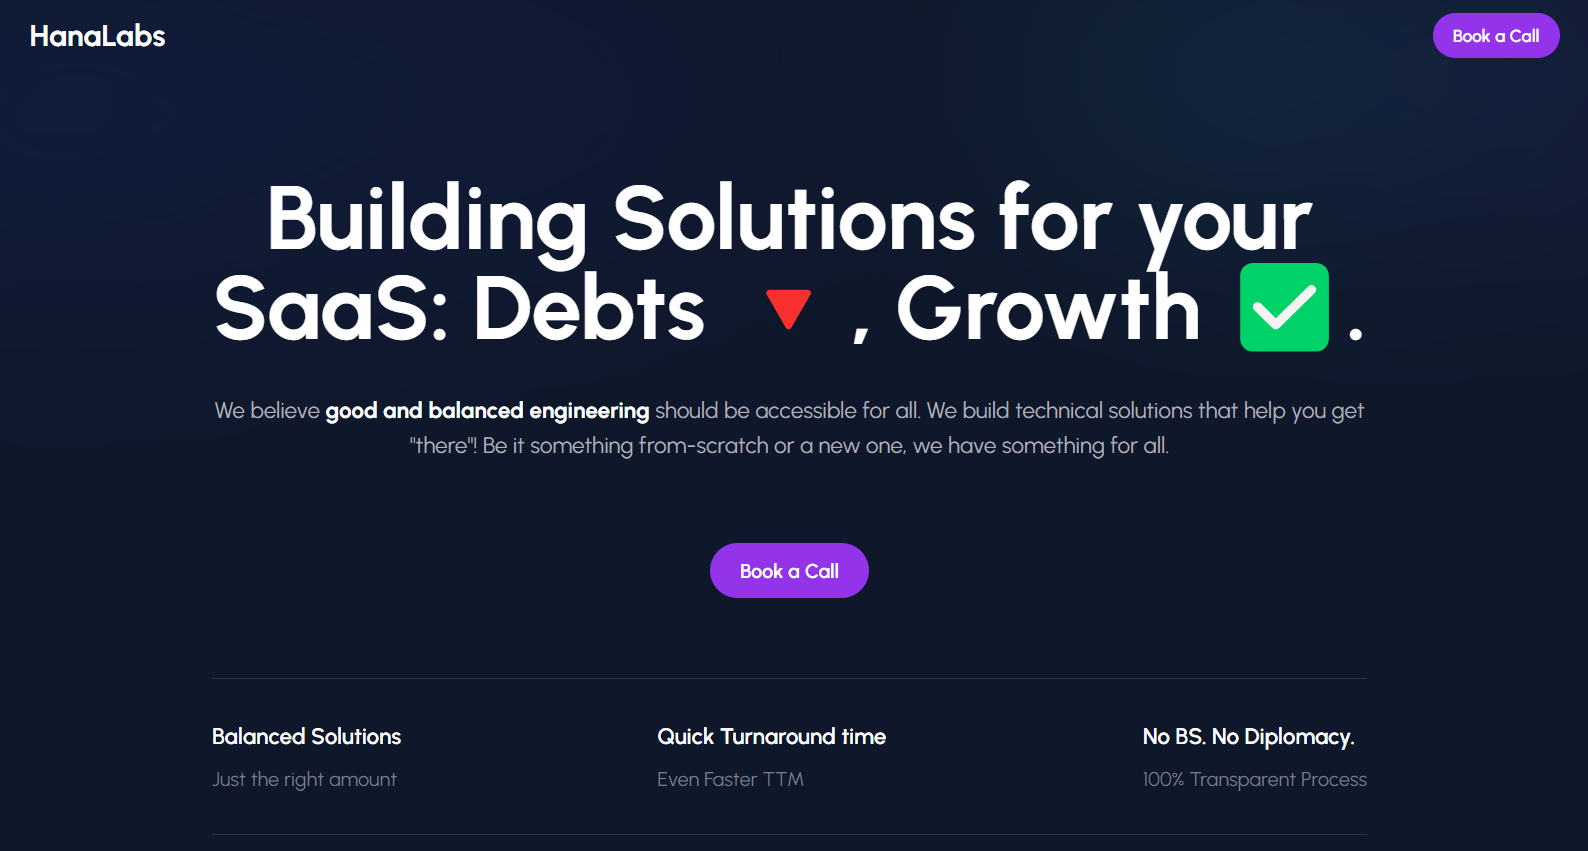
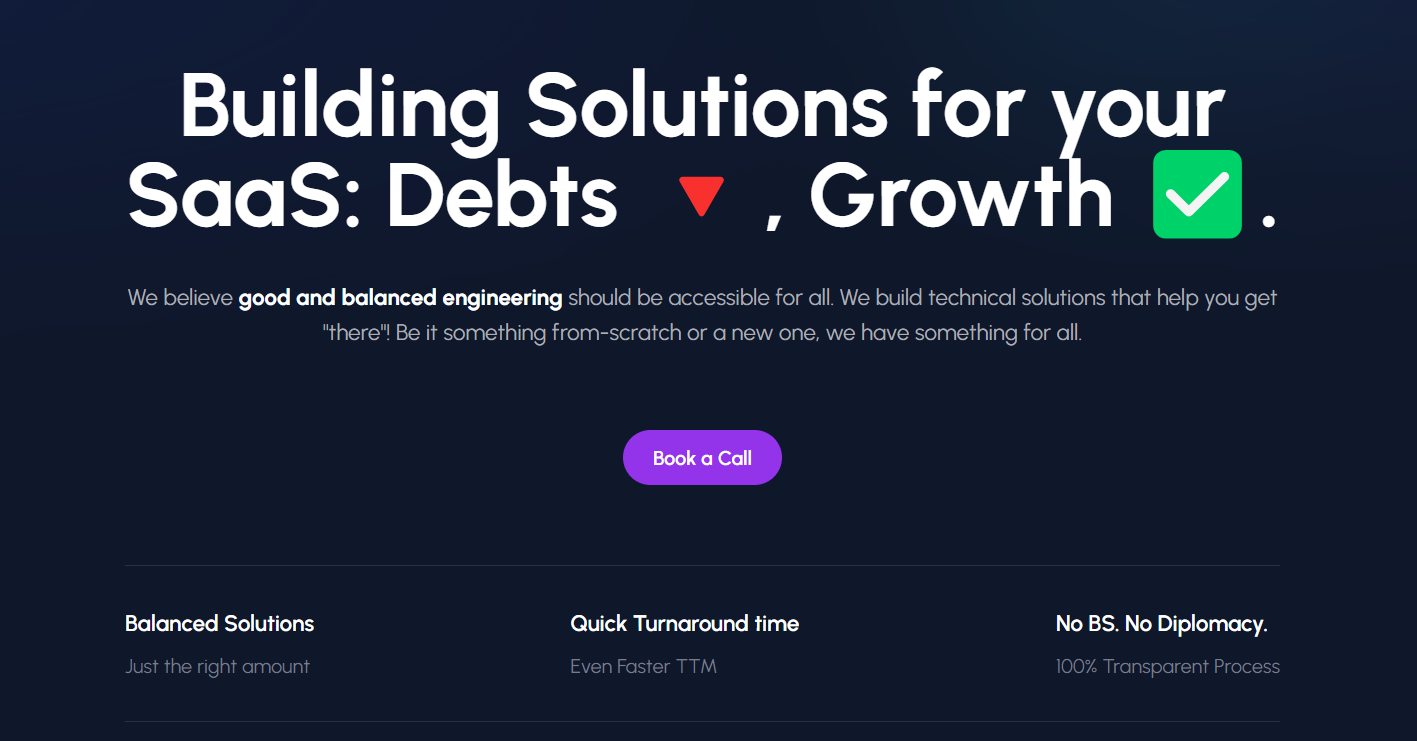
WIP community link change

diff --git a/src/components/Community.jsx b/src/components/Community.jsx
@@ -7,50 +7,65 @@ import { PiNote } from "react-icons/pi";
 import { PiArrowUpRightBold } from "react-icons/pi";
 import { Enterprise } from "../components/images/providers";
 import Link from "next/link";
+import { useRouter } from "next/router";
 
 const CommunityData = [
   {
     Icon: PiPencilSimpleLineLight,
     title: "Edit this page",
     ArrowIcon: PiArrowUpRightBold,
+    link: "https://github.com/intentjs/docs",
   },
   {
     Icon: PiShootingStar,
     title: "Star on GuitHub",
     ArrowIcon: PiArrowUpRightBold,
+    link: "https://github.com/intentjs/core",
   },
   {
     Icon: MdOutlineMessage,
     title: "Chat on Discord",
     ArrowIcon: PiArrowUpRightBold,
+    link: "https://discord.com/invite/CvCPVYMR",
   },
   {
     Icon: PiHandHeart,
     title: "Become a Sponsor",
     ArrowIcon: PiArrowUpRightBold,
+    link: "",
   },
   {
     Icon: PiNote,
     title: "Give us Feedback",
     ArrowIcon: PiArrowUpRightBold,
+    link: "https://github.com/intentjs/docs/issues/new?title=https://tryintent.com/docs",
   },
 ];
 
 const Community = (props) => {
-  console.log(props)
+  const { asPath } = useRouter();
   return (
     <div>
       <p className="nx-mb-3.5 nx-font-semibold nx-tracking-tight">Community</p>
       <ul>
         {CommunityData.map((item, index) => (
           <li className="nx-my-2 nx-scroll-my-6 nx-scroll-py-6" key={index}>
-            <a className="nx-font-semibold nx-inline-block nx-text-gray-500 hover:nx-text-gray-900 dark:nx-text-gray-400 dark:hover:nx-text-gray-300 contrast-more:nx-text-gray-900 contrast-more:nx-underline contrast-more:dark:nx-text-gray-50 nx-w-full nx-break-words">
+            <Link
+              className="nx-font-semibold nx-inline-block nx-text-gray-500 hover:nx-text-gray-900 dark:nx-text-gray-400 dark:hover:nx-text-gray-300 contrast-more:nx-text-gray-900 contrast-more:nx-underline contrast-more:dark:nx-text-gray-50 nx-w-full nx-break-words"
+              href={
+                (index === 0 && `${item.link}/${props.filePath}`) ||
+                (index === CommunityData.length - 1 &&
+                  `${item.link}${asPath}`) ||
+                item.link
+              }
+              target="_blank"
+            >
               <span className="flex flex-row items-center gap-2 cursor-pointer">
                 <item.Icon />
                 {item.title}
                 <item.ArrowIcon />
               </span>
-            </a>
+            </Link>
           </li>
         ))}
       </ul>

diff --git a/theme.config.jsx b/theme.config.jsx
@@ -5,7 +5,6 @@ import { iconMap } from "./src/components/utils/iconmap";
 import Community from "./src/components/Community";
 import Footer from "./src/components/Footer";
 import { Logo } from "./src/components/images/providers";
-import CodeSnippet from "./src/components/utils/CodeSnippet";
 
 const GITHUB_REPO_STAR = <GithubStar />;
 
@@ -59,14 +58,8 @@ export default {
       <span className="text-3xl">Intent</span>
     </div>
   ),
-  // mdxComponet: {
-  //   pre: CodeSnippet,
-  // },
-  // toc: {
-  //   extraContent: <Community />
-  // },
   chat: {
-    link: "https://google.com",
+    link: "https://discord.com/invite/CvCPVYMR",
   },
   project: {
     link: "https://github.com/intentjs/core",
@@ -105,7 +98,7 @@ export default {
     component: <Footer />,
   },
   editLink: {
-    component: (props) => <Community {...props}/>,
+    component: (props) => <Community {...props} />,
   },
   navigation: {
     prev: true,

diff --git a/next.config.js b/next.config.js
@@ -16,9 +16,9 @@ module.exports = withNextra({
       },
     ];
   },
-  mdxOptions: {
-    rehypePrettyCodeOptions: {
-      theme: JSON.parse(readFileSync("./custom-theme.json", "utf8")),
-    },
-  },
+  // mdxOptions: {
+  //   rehypePrettyCodeOptions: {
+  //     theme: JSON.parse(readFileSync("./custom-theme.json", "utf8")),
+  //   },
+  // },
 });

diff --git a/styles.css b/styles.css
@@ -1,7 +1,8 @@
+@import url("https://fonts.googleapis.com/css2?family=Urbanist:ital,wght@0,100..900;1,100..900&display=swap");
 @tailwind base;
 @tailwind components;
 @tailwind utilities;
 
-pre {
-  background-color: #1d2429 !important;
+body {
+  font-family: "Urbanist", sans-serif;
 }
